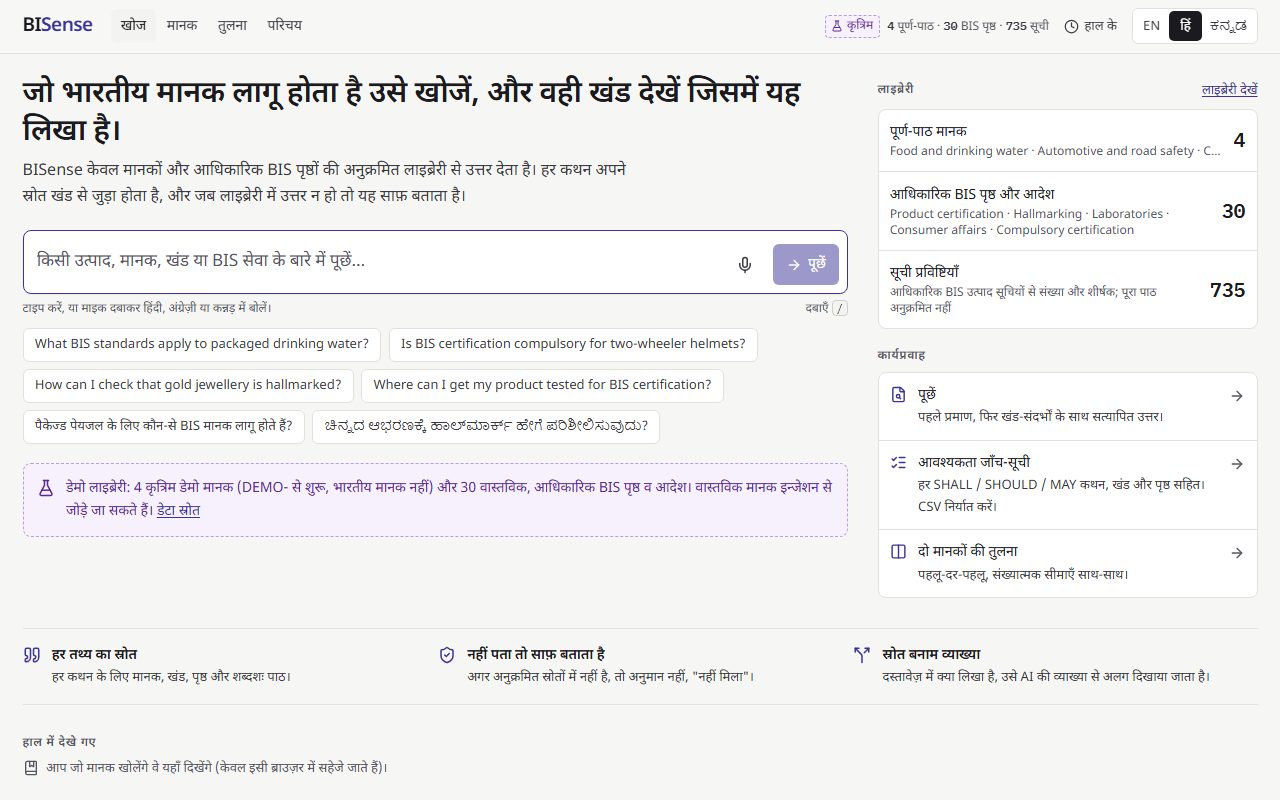
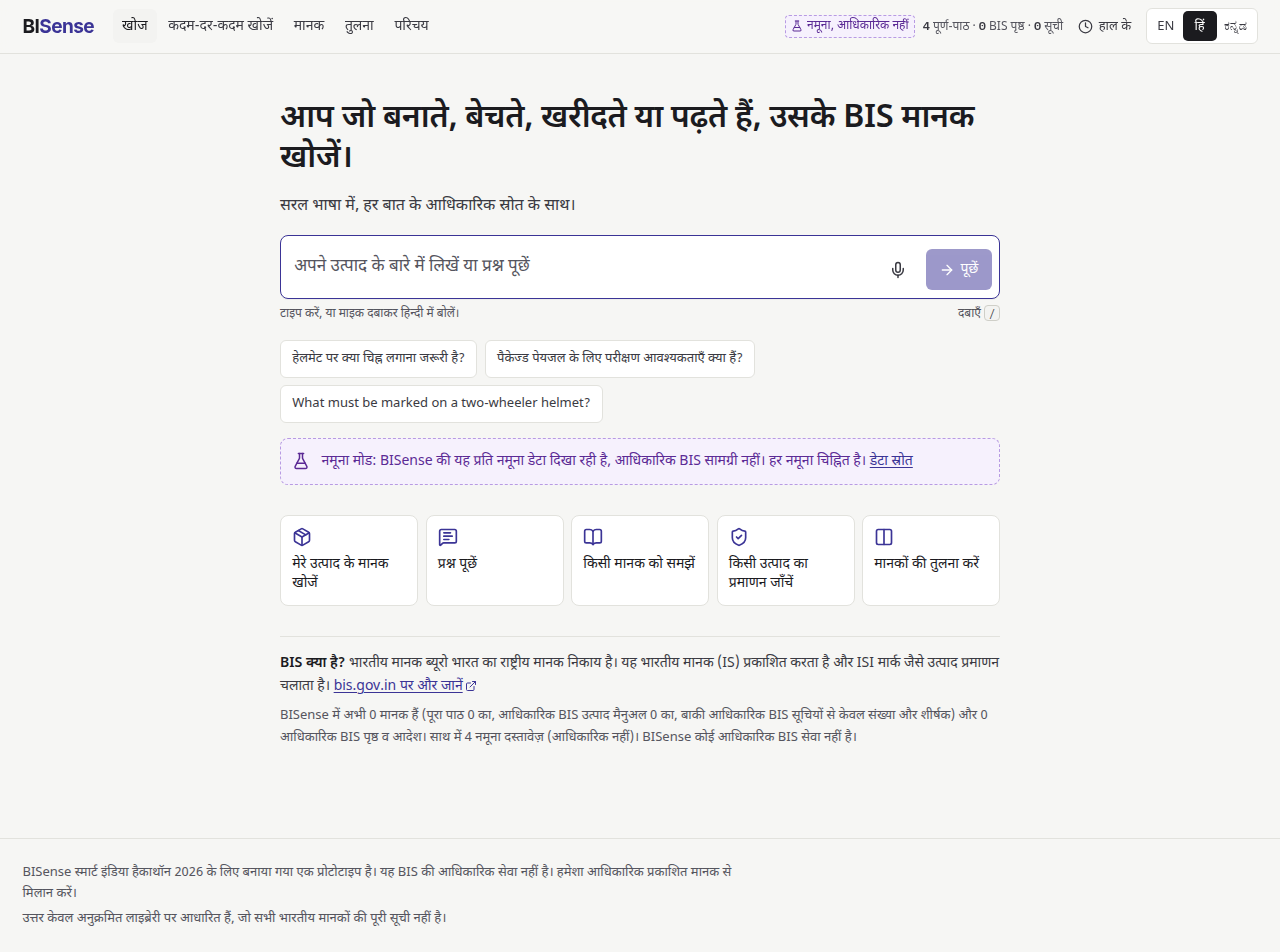
Home: examples in the selected language, coverage line localised; refreshed screenshots
Claude-Session: https://claude.ai/code/session_01GR7TXtNNXnoeu5baGrbs75

diff --git a/web/src/routes/Home.tsx b/web/src/routes/Home.tsx
@@ -11,20 +11,27 @@ import { useHealth, useLibrary } from "../lib/hooks";
 import { recentStandards } from "../lib/storage";
 import { shortTitle } from "../lib/format";
 
-// Official data: each example is in docs/demo_questions.yaml and checked by `npm run eval` / `npm run warm`.
-const OFFICIAL_EXAMPLES: { q: string; lang: string }[] = [
-  { q: "Is BIS certification compulsory for two-wheeler helmets?", lang: "en" },
-  { q: "How can I check that gold jewellery is hallmarked?", lang: "en" },
-  { q: "Where can I get my product tested for BIS certification?", lang: "en" },
-  { q: "पैकेज्ड पेयजल के लिए कौन-से BIS मानक लागू होते हैं?", lang: "hi" },
-  { q: "ಚಿನ್ನದ ಆಭರಣಕ್ಕೆ ಹಾಲ್ಮಾರ್ಕ್ ಹೇಗೆ ಪರಿಶೀಲಿಸುವುದು?", lang: "kn" },
-];
-// Sample mode (DATASET=sample): questions the sample pack can answer (tests/test_rag_mechanism.py, e2e).
-const SAMPLE_EXAMPLES: { q: string; lang: string }[] = [
-  { q: "What must be marked on a two-wheeler helmet?", lang: "en" },
-  { q: "What are the requirements for packaged drinking water?", lang: "en" },
-  { q: "How are bundles of steel bars tied?", lang: "en" },
-];
+// Example questions per UI language. Official-data examples are in docs/demo_questions.yaml and checked by
+// `npm run eval` / `npm run warm`; sample-mode examples are checked in tests/test_rag_mechanism.py and e2e.
+type Example = { q: string; lang: string };
+const OFFICIAL_EXAMPLES: Record<string, Example[]> = {
+  en: [
+    { q: "Is BIS certification compulsory for two-wheeler helmets?", lang: "en" },
+    { q: "How can I check that gold jewellery is hallmarked?", lang: "en" },
+    { q: "Where can I get my product tested for BIS certification?", lang: "en" },
+  ],
+  hi: [{ q: "पैकेज्ड पेयजल के लिए कौन-से BIS मानक लागू होते हैं?", lang: "hi" }, { q: "सोने के गहनों पर हॉलमार्किंग का शुल्क कितना है?", lang: "hi" }],
+  kn: [{ q: "ಚಿನ್ನದ ಆಭರಣಕ್ಕೆ ಹಾಲ್ಮಾರ್ಕ್ ಹೇಗೆ ಪರಿಶೀಲಿಸುವುದು?", lang: "kn" }, { q: "ಉತ್ಪನ್ನ ಪರೀಕ್ಷೆಗೆ ಯಾವ ಪ್ರಯೋಗಾಲಯ ಬಳಸಬೇಕು?", lang: "kn" }],
+};
+const SAMPLE_EXAMPLES: Record<string, Example[]> = {
+  en: [
+    { q: "What must be marked on a two-wheeler helmet?", lang: "en" },
+    { q: "What are the requirements for packaged drinking water?", lang: "en" },
+    { q: "How are bundles of steel bars tied?", lang: "en" },
+  ],
+  hi: [{ q: "हेलमेट पर क्या चिह्न लगाना जरूरी है?", lang: "hi" }, { q: "पैकेज्ड पेयजल के लिए परीक्षण आवश्यकताएँ क्या हैं?", lang: "hi" }],
+  kn: [{ q: "ಹೆಲ್ಮೆಟ್ ಮೇಲೆ ಏನು ಗುರುತು ಇರಬೇಕು?", lang: "kn" }, { q: "ಪ್ಯಾಕ್ ಮಾಡಿದ ಕುಡಿಯುವ ನೀರಿಗೆ ಅವಶ್ಯಕತೆಗಳು ಯಾವುವು?", lang: "kn" }],
+};
 
 const DOORS: { k: string; to: string; icon: LucideIcon }[] = [
   { k: "product", to: "/guide?goal=product", icon: Package },
@@ -44,7 +51,10 @@ export default function Home() {
   const recent = useMemo(() => recentStandards(), []);
   const go = (q: string) => nav(`/ask?q=${encodeURIComponent(q)}&lang=${i18n.language}`);
   const sample = health.data?.dataset_mode === "sample";
-  const examples = sample ? SAMPLE_EXAMPLES : OFFICIAL_EXAMPLES;
+  const set = sample ? SAMPLE_EXAMPLES : OFFICIAL_EXAMPLES;
+  // Questions in the selected language first, then one English example.
+  const examples = i18n.language === "en" ? set.en : [...(set[i18n.language] ?? []), set.en[0]];
+  const c = library.data?.counts;
 
   // "Something else" in the guided path lands here with the input focused.
   useEffect(() => {
@@ -110,7 +120,14 @@ export default function Home() {
             <ExternalLink size={12} aria-hidden />
           </a>
         </p>
-        {!library.data ? <Skeleton className="h-4 w-2/3" /> : <p className="text-[13px] text-ink-3">{t("home.coverage", { line: library.data.coverage })}</p>}
+        {!c ? (
+          <Skeleton className="h-4 w-2/3" />
+        ) : (
+          <p className="text-[13px] text-ink-3">
+            {t("home.coverageLine", { total: c.standards_total ?? 0, full: c.standards_with_full_text ?? 0, manual: c.standards_with_manual ?? 0, pages: c.guidance ?? 0 })}
+            {c.sample_documents ? ` ${t("home.coverageSample", { count: c.sample_documents })}` : ""} {t("home.notOfficial")}
+          </p>
+        )}
       </section>
 
       {recent.length > 0 && (
